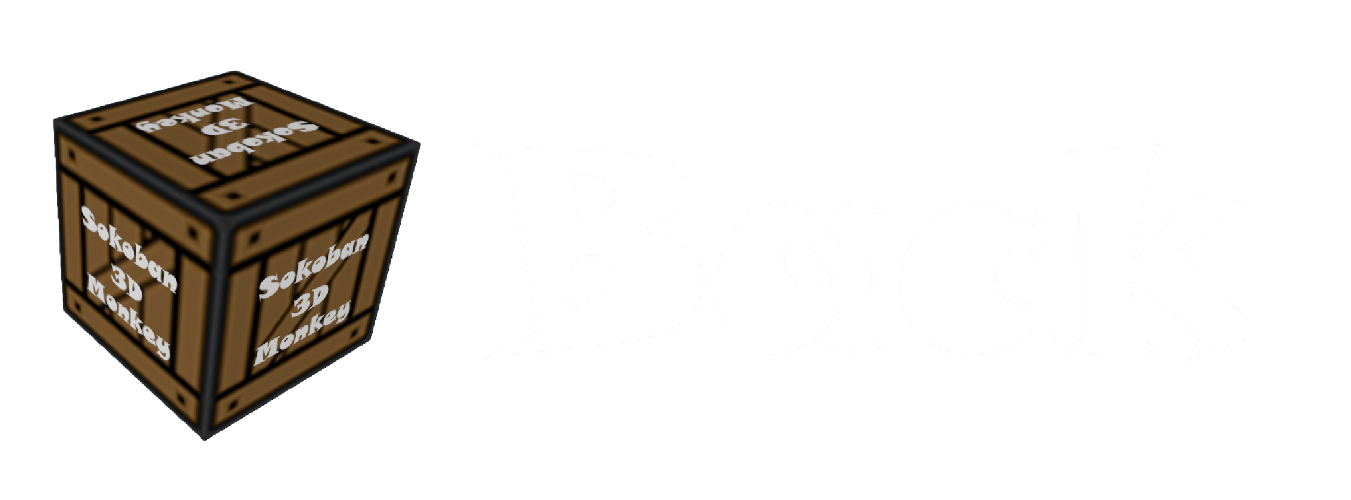
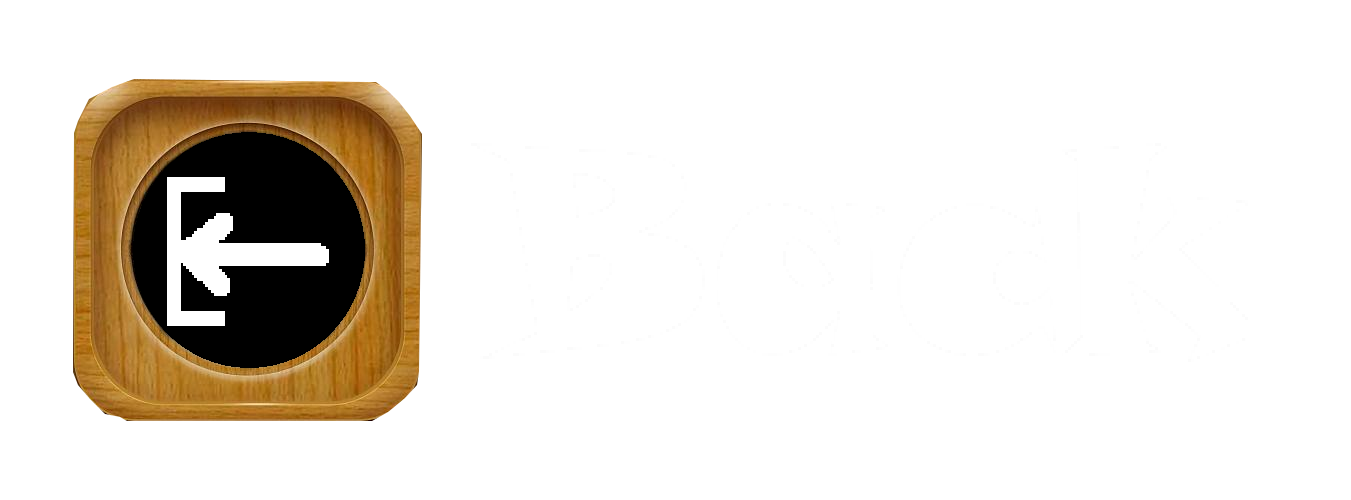
perpare for class

Changed region(s): [[0.0311, 0.12, 0.3109, 0.87]]

diff --git a/src/main/Main.java b/src/main/Main.java
@@ -13,8 +13,11 @@ import com.jme3.scene.shape.Box;
 import com.jme3.system.AppSettings;
 import com.jme3.ui.Picture;
 
+import javax.swing.*;
+
 public class Main extends SimpleApplication {
     public static String username = "";
+    public Icon icon = new ImageIcon("menuicon.png");
 
     public static void main(String[] args) {
         Main app = new Main();
@@ -26,7 +29,7 @@ public class Main extends SimpleApplication {
         settings.setResizable(false); // 缩放窗口
         settings.setTitle("SOKOBAN!"); // 设置窗口标题
         // 设置窗口图标
-        //settings.setIcons(new Picture[]{new Picture("images/boxicon.png")});
+        //settings.setIcons(new java.awt.Image[]{((ImageIcon) app.icon).getImage()});
 
         // 启动程序
         app.setSettings(settings);
